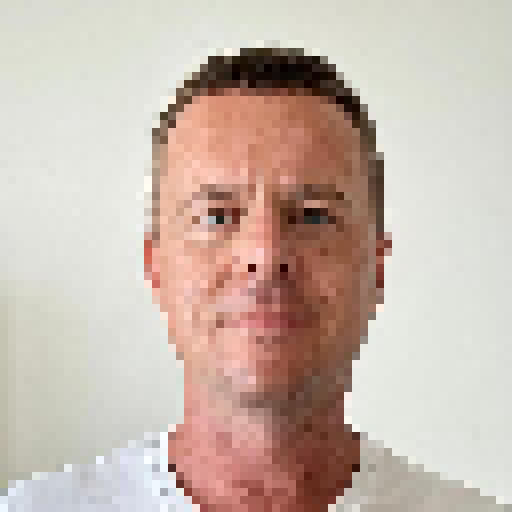
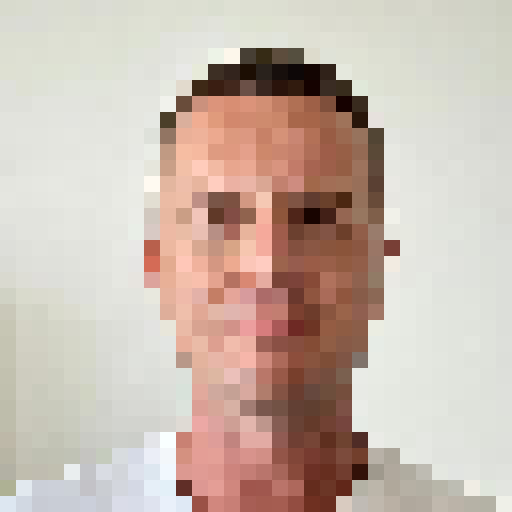
fight reason

diff --git a/client/src/Fight.tsx b/client/src/Fight.tsx
@@ -10,6 +10,8 @@ import useAudio from './useAudio';
 import RoundAnnounce from './audio/round_announce.mp3';
 import EasterEggSound from './audio/easter_egg_1.mp3';
 import FinishHimSound from './audio/finish_fim.mp3';
+import HealthBar from './HealthBar';
+import FightTimer from './FightTimer';
 
 type ResponseFight = {
   p1dmg: string;
@@ -23,6 +25,7 @@ interface FightProps {
   player2: Fighter;
   onFightFinish: (winner: Fighter) => void;
   muted?: boolean;
+  fightReason: string;
 }
 
 // Player Sheet styled like MK3's player stats panel
@@ -62,7 +65,7 @@ const CombatLog: React.FC<{ rounds: ResponseFight[]; isLoading: boolean }> = ({
   // Auto scroll to the bottom when new messages are added
   useEffect(() => {
     if (logRef.current) {
-      logRef.current.scrollTop = logRef.current.scrollHeight + 200;
+      // logRef.current.scrollTop = logRef.current.scrollHeight + 200;
     }
   }, [rounds]);
 
@@ -158,12 +161,14 @@ const FinishHimButton: React.FC<{ onClick: () => void }> = ({ onClick }) => {
   );
 };
 
+
 // Main Fight component styled like MK3
-const Fight: React.FC<FightProps> = ({ player1, player2, onFightFinish, muted }) => {
+const Fight: React.FC<FightProps> = ({ player1, player2, onFightFinish, muted, fightReason }) => {
   const [combatLog, setCombatLog] = React.useState<ResponseFight[]>([]);
   const [isLoading, setIsLoading] = React.useState(false);
   const [fightFinished, setFightFinished] = React.useState(false);
-
+  const [player1MaxHealth] = React.useState(player1.health);
+  const [player2MaxHealth] = React.useState(player2.health);
 
   const { play: playHit1 } = useAudio(Hit1, muted);
   const { play: playHit2 } = useAudio(Hit2, muted);
@@ -181,6 +186,7 @@ const Fight: React.FC<FightProps> = ({ player1, player2, onFightFinish, muted })
     { play: playHit4 },
     { play: playHit5 },
   ];
+
 
   const handleRound = useCallback(async () => {
     const hitIndex = Math.floor(Math.random() * hitSounds.length);
@@ -240,14 +246,29 @@ const Fight: React.FC<FightProps> = ({ player1, player2, onFightFinish, muted })
   return (
     <div className="flex flex-col items-center bg-black text-white min-h-screen">
       <h1 className="text-red-600 text-5xl font-bold uppercase mb-6 animate-pulse">
-        Fight between {player1.name} and {player2.name}
+        Бой между {player1.name} and {player2.name} {fightReason}
       </h1>
+
+      <div className="flex justify-between w-full max-w-6xl min-w-[98%] align-top">
+        {/* Health bar for Player 1 */}
+        <div className="flex-1">
+          <HealthBar health={player1.health} maxHealth={player1MaxHealth} name={player1.name} />
+        </div>
+
+        {/* Timer in the middle */}
+        <FightTimer />
+
+        {/* Health bar for Player 2 (reversed) */}
+        <div className="flex-1">
+          <HealthBar health={player2.health} maxHealth={player2MaxHealth} reversed name={player2.name}/>
+        </div>
+      </div>
+
       <div className="flex w-full justify-around items-start bg-zinc-900 p-6 rounded-lg">
         <PlayerSheet player={player1} />
         <div>
           <CombatLog rounds={combatLog} isLoading={isLoading} />
         </div>
-
         <PlayerSheet player={player2} />
       </div>
       <div className='mb-15'>{fightFinished && <FinishHimButton onClick={finishHim} />}</div>

diff --git a/client/src/VersusScreen.tsx b/client/src/VersusScreen.tsx
@@ -5,11 +5,31 @@ import VersusBackground from './backgrounds/versusbackground.jpg';
 interface FightLoadingScreenProps {
   player1: Fighter;
   player2: Fighter;
-  onFightStart: () => void;
+  onFightStart: (reason: string) => void;
 }
+
+const fightReasons = [
+  'за тяжелый мак',
+  'за ящик с лещами',
+  'за свободу',
+  'за последний кусочек пиццы с ананасом',
+  'чтобы доказать, у кого лучше усы',
+  'из-за медленного Wi-Fi',
+  'из-за ананасов на пицце',
+  'кто-то украл пульт от телевизора',
+  'чтобы выяснить, кто дольше задержит дыхание',
+  'не смогли выбрать сериал на Netflix',
+  'из-за спора, кто займет место у окна',
+  'чтобы выяснить, кто лучше изображает кошку',
+  'потому что один забыл сказать "будь здоров" после чихания',
+  'чеплаху горохового супа'
+]
 
 const VersusScreen: React.FC<FightLoadingScreenProps> = ({ player1, player2, onFightStart }) => {
   const [loadingComplete, setLoadingComplete] = useState(false);
+  const fightReasonIndex = Math.floor(Math.random() * fightReasons.length);
+  const [fightReason, setFightReason] = useState(fightReasons[fightReasonIndex]);
+
   useEffect(() => {
     const timer = setTimeout(() => {
       setLoadingComplete(true);
@@ -21,8 +41,8 @@ const VersusScreen: React.FC<FightLoadingScreenProps> = ({ player1, player2, onF
   useEffect(() => {
     if (loadingComplete) {
       const timer = setTimeout(() => {
-        onFightStart();
-      }, 1500);
+        onFightStart(fightReason);
+      }, 3000);
       return () => clearTimeout(timer); // Cleanup the timer on unmount
   }}, [loadingComplete]);
 
@@ -65,8 +85,10 @@ const VersusScreen: React.FC<FightLoadingScreenProps> = ({ player1, player2, onF
       <div className="flex justify-center items-center mt-12 ml-10">
         {!loadingComplete && (
           <div className="text-center">
-            <div className="text-5xl text-yellow-400 font-bold uppercase animate-bounce">FIGHT!</div>
-            <div className="mt-4 text-4xl text-red-600 animate-pulse">Loading...</div>
+            <div className="text-5xl text-yellow-400 font-bold uppercase animate-bounce">
+                Бой {fightReasons[fightReasonIndex]}
+            </div>
+            <div className="mt-4 text-4xl text-red-600 animate-pulse">загрузка...</div>
           </div>
         )}
       </div>
@@ -75,7 +97,7 @@ const VersusScreen: React.FC<FightLoadingScreenProps> = ({ player1, player2, onF
       <div className="flex justify-center items-center ml-10">
         {loadingComplete && (
           <div className="text-center">
-            <div className="text-7xl text-yellow-400 font-bold uppercase animate-pulse">Fight begins!</div>
+            <div className="text-7xl text-yellow-400 font-bold uppercase animate-pulse">Да начнется битва!</div>
           </div>
         )}
       </div>

diff --git a/client/src/HealthBar.tsx b/client/src/HealthBar.tsx
@@ -1,0 +1,28 @@
+const HealthBar: React.FC<{ health: number; maxHealth: number; reversed?: boolean, name: string }> = ({
+  health,
+  maxHealth,
+  reversed,
+  name,
+}) => {
+  const healthPercentage = health > 0 ? (health / maxHealth) * 100 : 0;
+  return (
+    <div className="relative w-full h-12 bg-red-800 border-2 border-yellow-600 rounded-lg overflow-hidden shadow-lg">
+      {/* Health indicator */}
+      <div
+        className={`absolute top-0 ${reversed ? "right-0" : "left-0"} h-full bg-green-500 transition-all duration-300`}
+        style={{ width: `${healthPercentage}%`, transform: reversed ? 'scaleX(-1)' : 'none' }}
+      ></div>
+
+      {/* Name inside the health bar */}
+      <span
+        className={`absolute top-0 left-0 right-0 h-full flex items-center ${
+          reversed ? "justify-end pr-4" : "justify-start pl-4"
+        } text-yellow-400 font-bold text-lg uppercase z-10`}
+      >
+        {name}
+      </span>
+    </div>
+  );
+};
+
+export default HealthBar;

diff --git a/client/src/App.tsx b/client/src/App.tsx
@@ -44,6 +44,7 @@ function App() {
   const [player2, setPlayer2] = React.useState<Fighter>(Fighters[1]);
   const [winner, setWinner] = React.useState<Fighter>(Fighters[0]);
   const [muted, setMuted] = React.useState(false);
+  const [fightReason, setFightReason] = React.useState('');
 
   function chooseFighter(fighter: Fighter) {
     setSelectedFighter(fighter);
@@ -90,7 +91,10 @@ function App() {
           <VersusScreen
             player1={selectedFighter}
             player2={player2}
-            onFightStart={() => setCurrentScreen(SCREENS.FIGHT)}
+            onFightStart={(reason) => {
+              setCurrentScreen(SCREENS.FIGHT)
+              setFightReason(reason);
+            }}
           />
         );
       case SCREENS.FIGHT:
@@ -100,6 +104,7 @@ function App() {
             player2={player2}
             onFightFinish={onFightFinish}
             muted={muted}
+            fightReason={fightReason}
           />
         );
       case SCREENS.WIN:

diff --git a/client/src/Fighters.ts b/client/src/Fighters.ts
@@ -10,7 +10,7 @@ import Novoselov from "./avatars/novoselov.png";
 import Orlov from "./avatars/orlov.png";
 import Panov from "./avatars/panov.png";
 import Ponomarenko from "./avatars/ponomarenko.png";
-import Roshupkin from "./avatars/roshupkin.jpeg";
+import Roshupkin from "./avatars/roshupkin.png";
 import Seregin from "./avatars/seregin.png";
 import Siratov from "./avatars/siratov.png";
 import Surodina from "./avatars/surodina.png";
@@ -54,7 +54,7 @@ type FighterType = {
 } & Partial<Omit<Fighter, 'name' | 'avatar'>>;
 
 const fightersRaw: FighterType[]  = [
-  { avatar: Chekushkin, name: "uncle jenya", evasion: 99, winSound: uncleJenyaWinSound },
+  { avatar: Chekushkin, name: "uncle jenya", evasion: 9, winSound: uncleJenyaWinSound },
   { avatar: Gabriel, name: "gabriel", winSound: gabrialWinSound },
   { avatar: Galashichev, name: "tra-ta-ta-ta-ta", winSound: traTaTaTaWinSound },
   { avatar: Jidkevich, name: "liquidman", winSound: liquidmanWinSound },

diff --git a/client/src/Fighter.ts b/client/src/Fighter.ts
@@ -15,21 +15,19 @@ class Fighter {
 
   constructor(id: number, name: string, avatar: string, {
     health = 100,
-    powerMin = 2,
-    powerMax = 10,
+    powerMin = 5,
+    powerMax = 20,
     defense = 0,
     critical = 5,
-    evasion = 5,
+    evasion = 15,
     winSound = defaultWinSound,
   } = {}) {
     this.id = id;
     this.avatar = avatar;
     this.name = name;
     this.health = health;
-    // this.powerMin = powerMin;
-    this.powerMin = 10;
-    // this.powerMax = powerMax;
-    this.powerMax = 90;
+    this.powerMin = powerMin;
+    this.powerMax = powerMax;
     this.defense = defense;
     this.critical = critical;
     this.evasion = evasion;

diff --git a/client/src/FightTimer.tsx b/client/src/FightTimer.tsx
@@ -1,0 +1,23 @@
+import React from 'react';
+
+const FightTimer: React.FC<{}> = () => {
+  const [timeLeft, setTimeLeft] = React.useState(99); // Initial fight timer (99 seconds)
+
+    // Timer logic
+    React.useEffect(() => {
+      if (timeLeft > 0) {
+        const timer = setInterval(() => {
+          setTimeLeft((prev) => prev - 1);
+        }, 1000);
+        return () => clearInterval(timer);
+      }
+    }, [timeLeft]);
+
+  return (
+    <div className="flex items-center justify-center w-20 h-12 bg-black border-2 border-yellow-600 text-yellow-400 text-3xl font-bold">
+      {timeLeft}
+    </div>
+  );
+};
+
+export default FightTimer;

diff --git a/client/src/Ladder.tsx b/client/src/Ladder.tsx
@@ -23,7 +23,7 @@ const Ladder: React.FC = () => {
   }, []);
 
   return (
-    <div className="w-full p-8 bg-black text-yellow-400 rounded-lg shadow-lg min-h-[500px] max-h-[700px]">
+    <div className="w-full p-8 bg-black text-yellow-400 rounded-lg shadow-lg min-h-[500px]">
       <h1 className="text-5xl font-bold text-red-600 uppercase mb-8 animate-pulse text-center">
         Fighting Ladder
       </h1>
